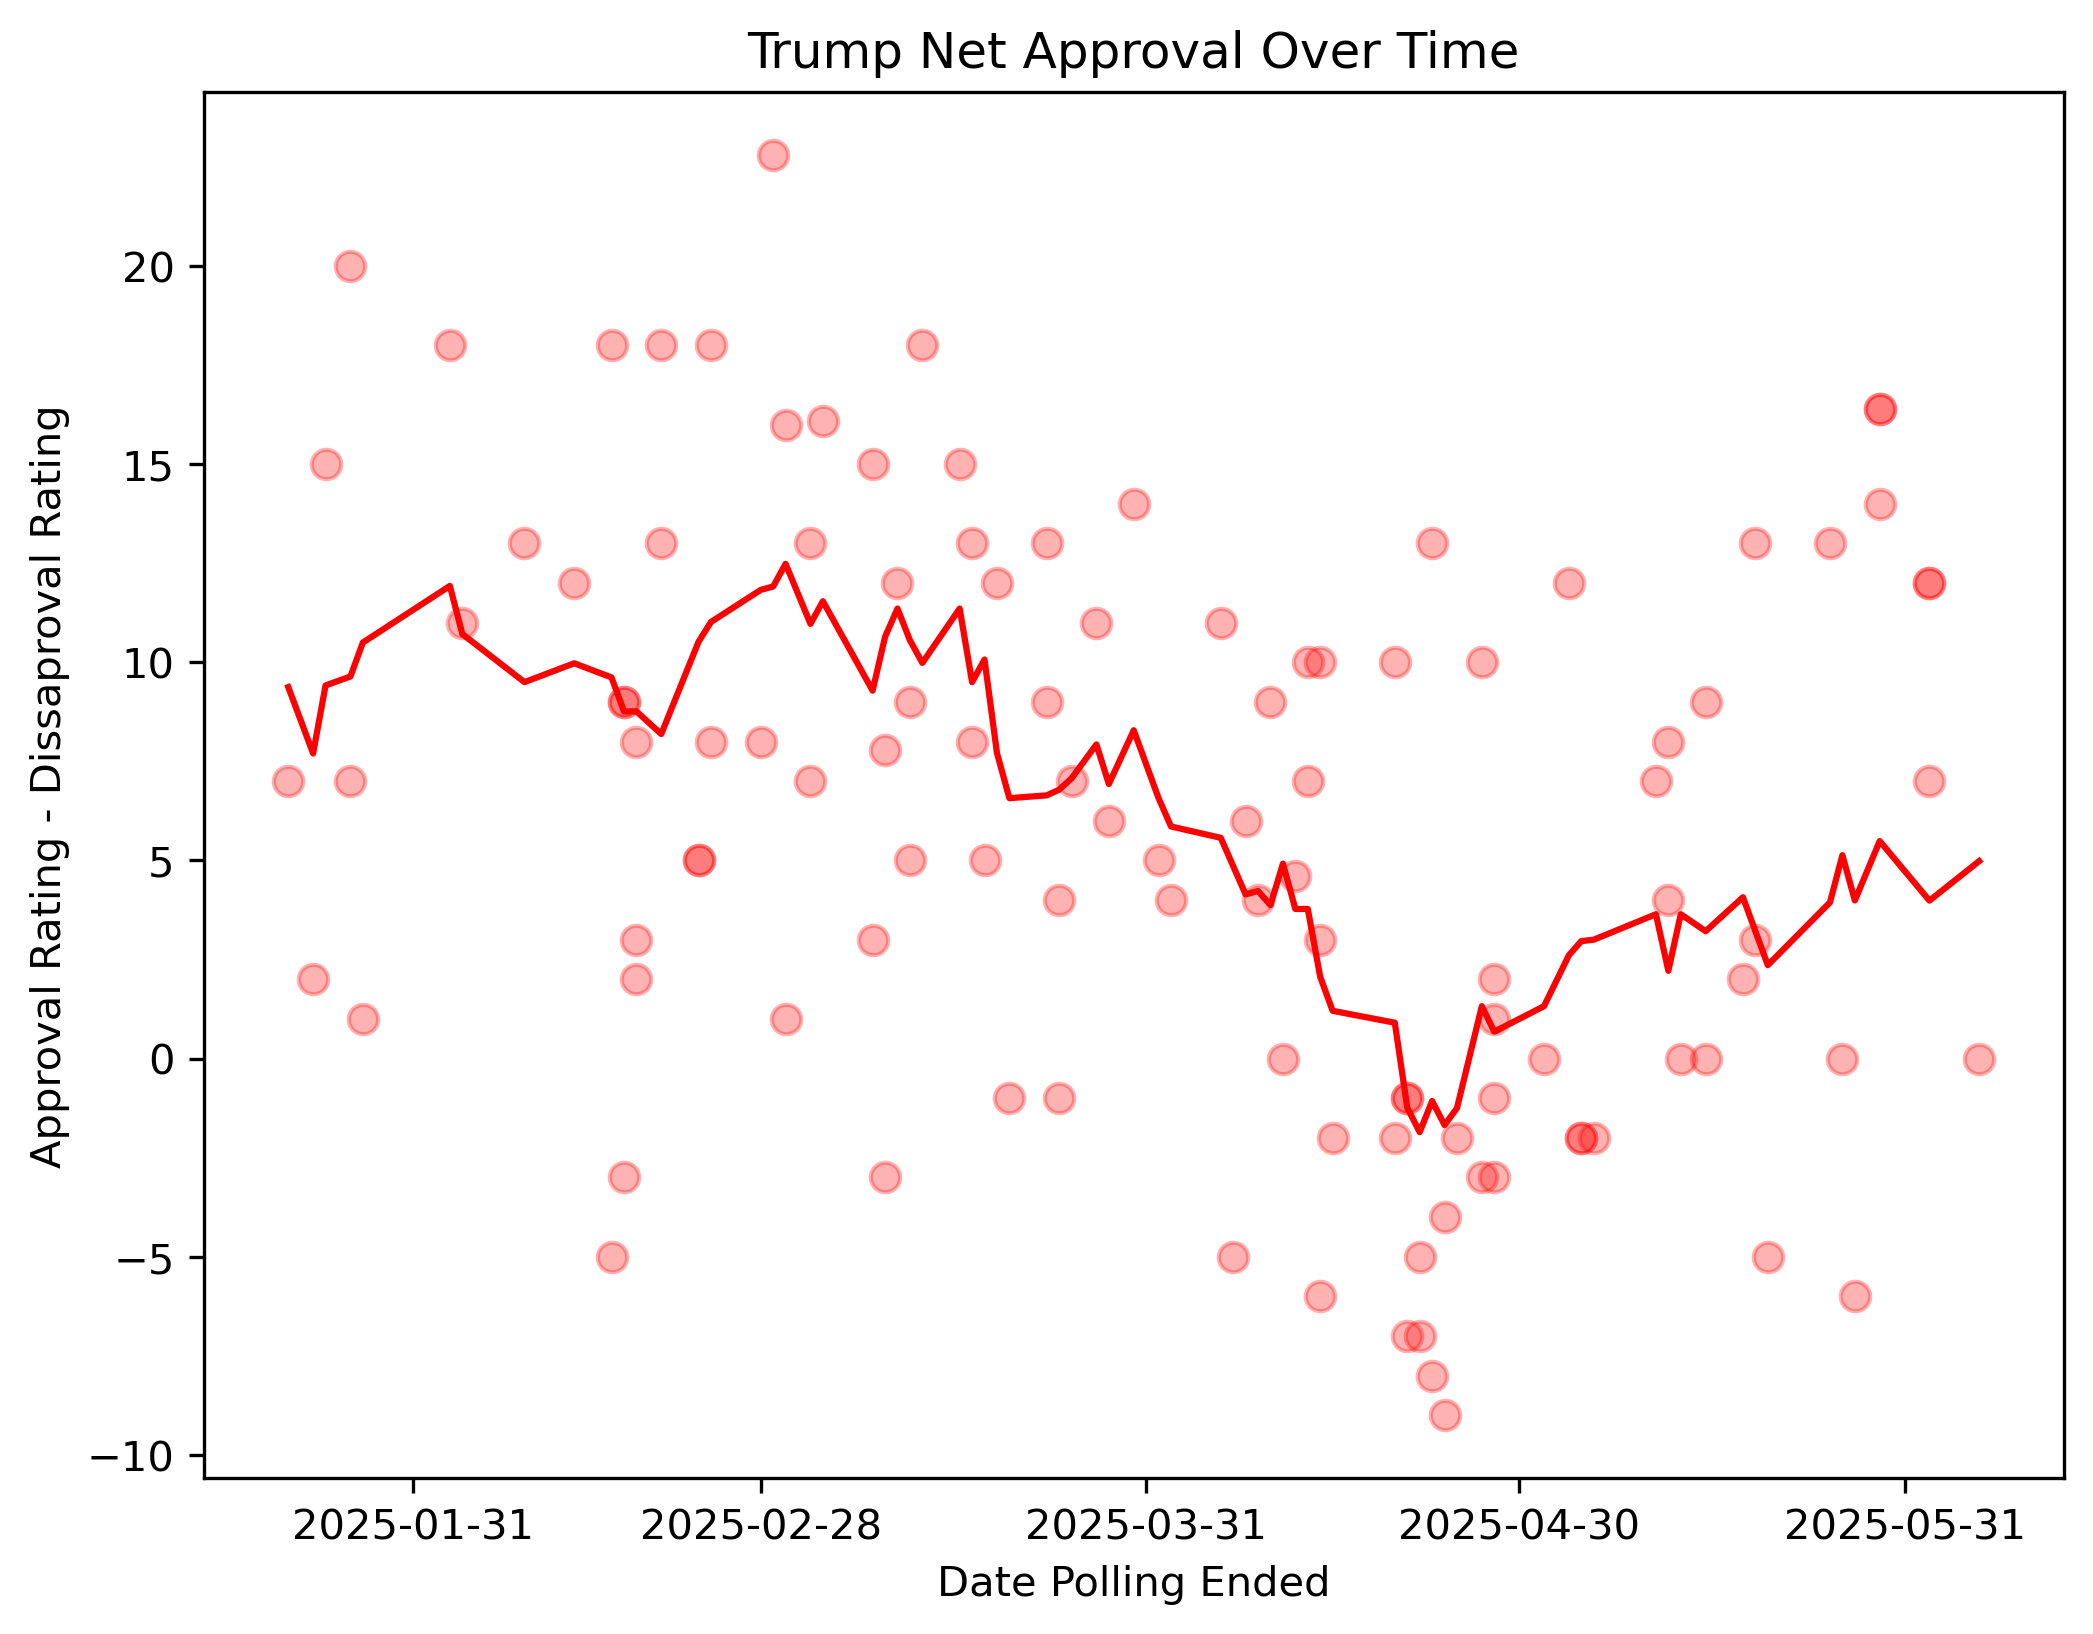
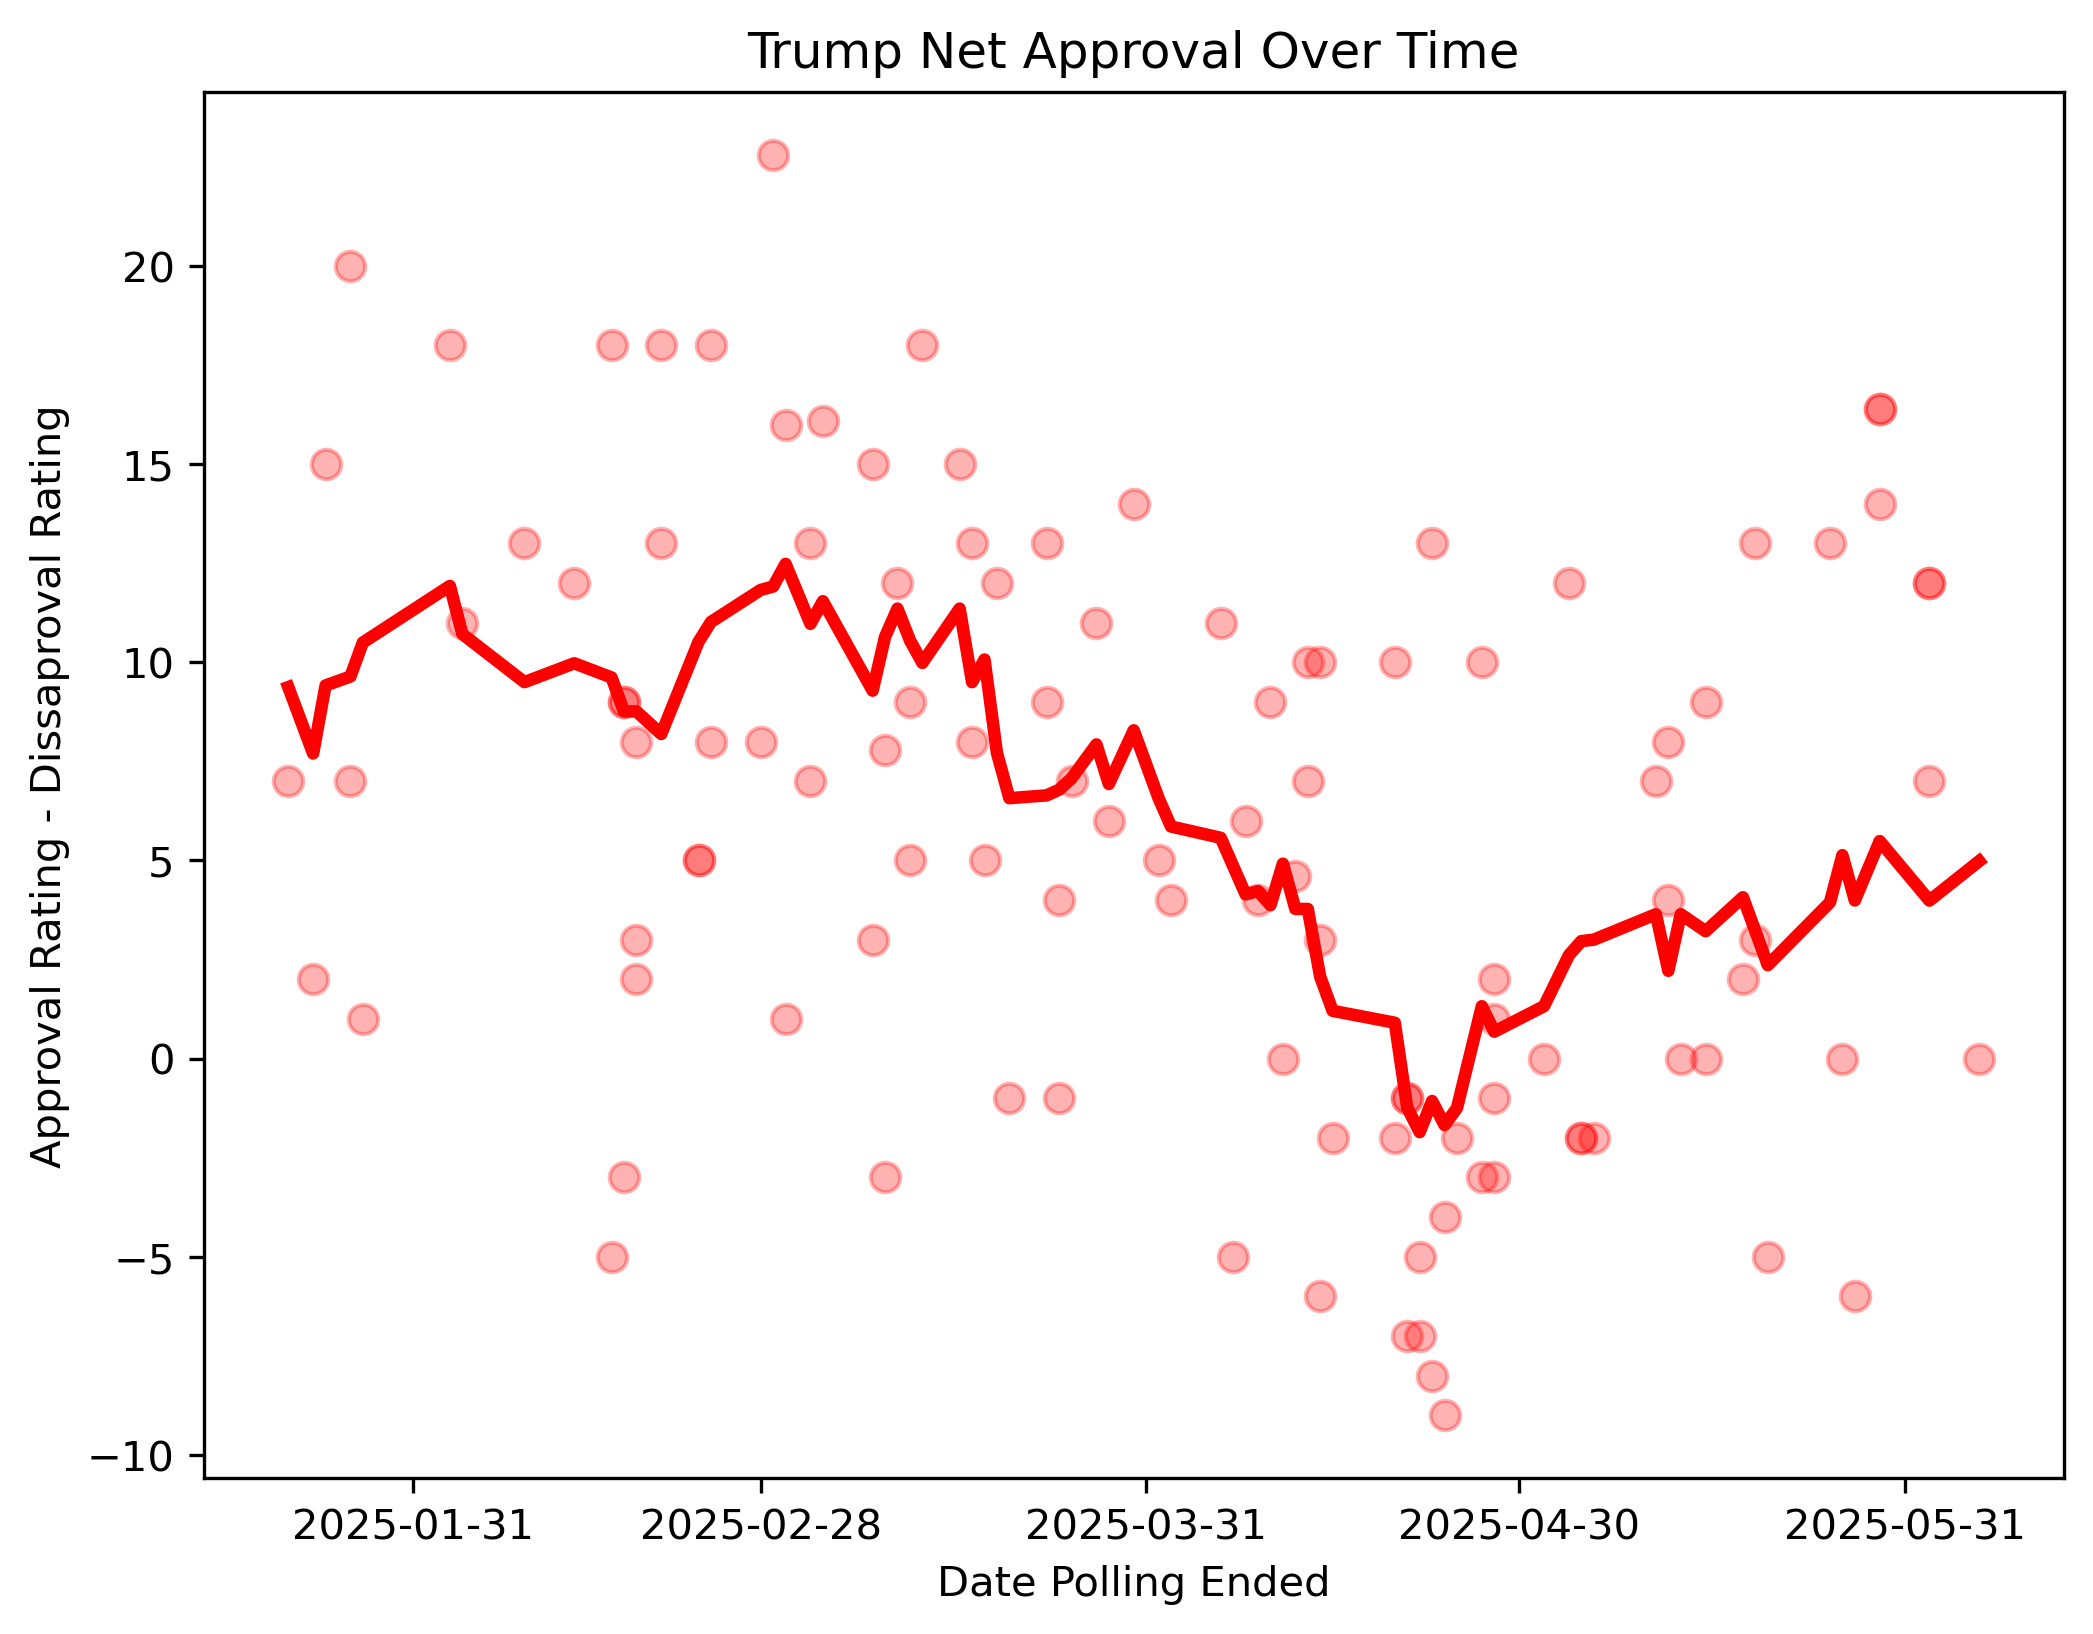
Fixed Moving Average Code.

diff --git a/us_presidential_polling/trump_polling.py b/us_presidential_polling/trump_polling.py
@@ -67,15 +67,13 @@ df_plot = df_clean[['date_end','Approve', 'Disapprove', 'Net']]
 
 df_plot_mean = df_plot.groupby('date_end').mean()['Net'].rolling(window = 7, min_periods = 1, center = True).mean().reset_index()
 
-print(df_plot_mean)
-
 # Create Plot
 
 plt.figure(figsize = (8,6))
 
 plt.scatter(df_plot['date_end'], df_plot['Net'], alpha = 0.3, c = 'red', s = 50)
 
-plt.plot(df_plot_mean['date_end'], df_plot_mean['Net'], c = 'red')
+plt.plot(df_plot_mean['date_end'], df_plot_mean['Net'], c = 'red', linewidth = 3)
 
 plt.xlabel('Date Polling Ended')
 plt.ylabel('Approval Rating - Dissaproval Rating')
